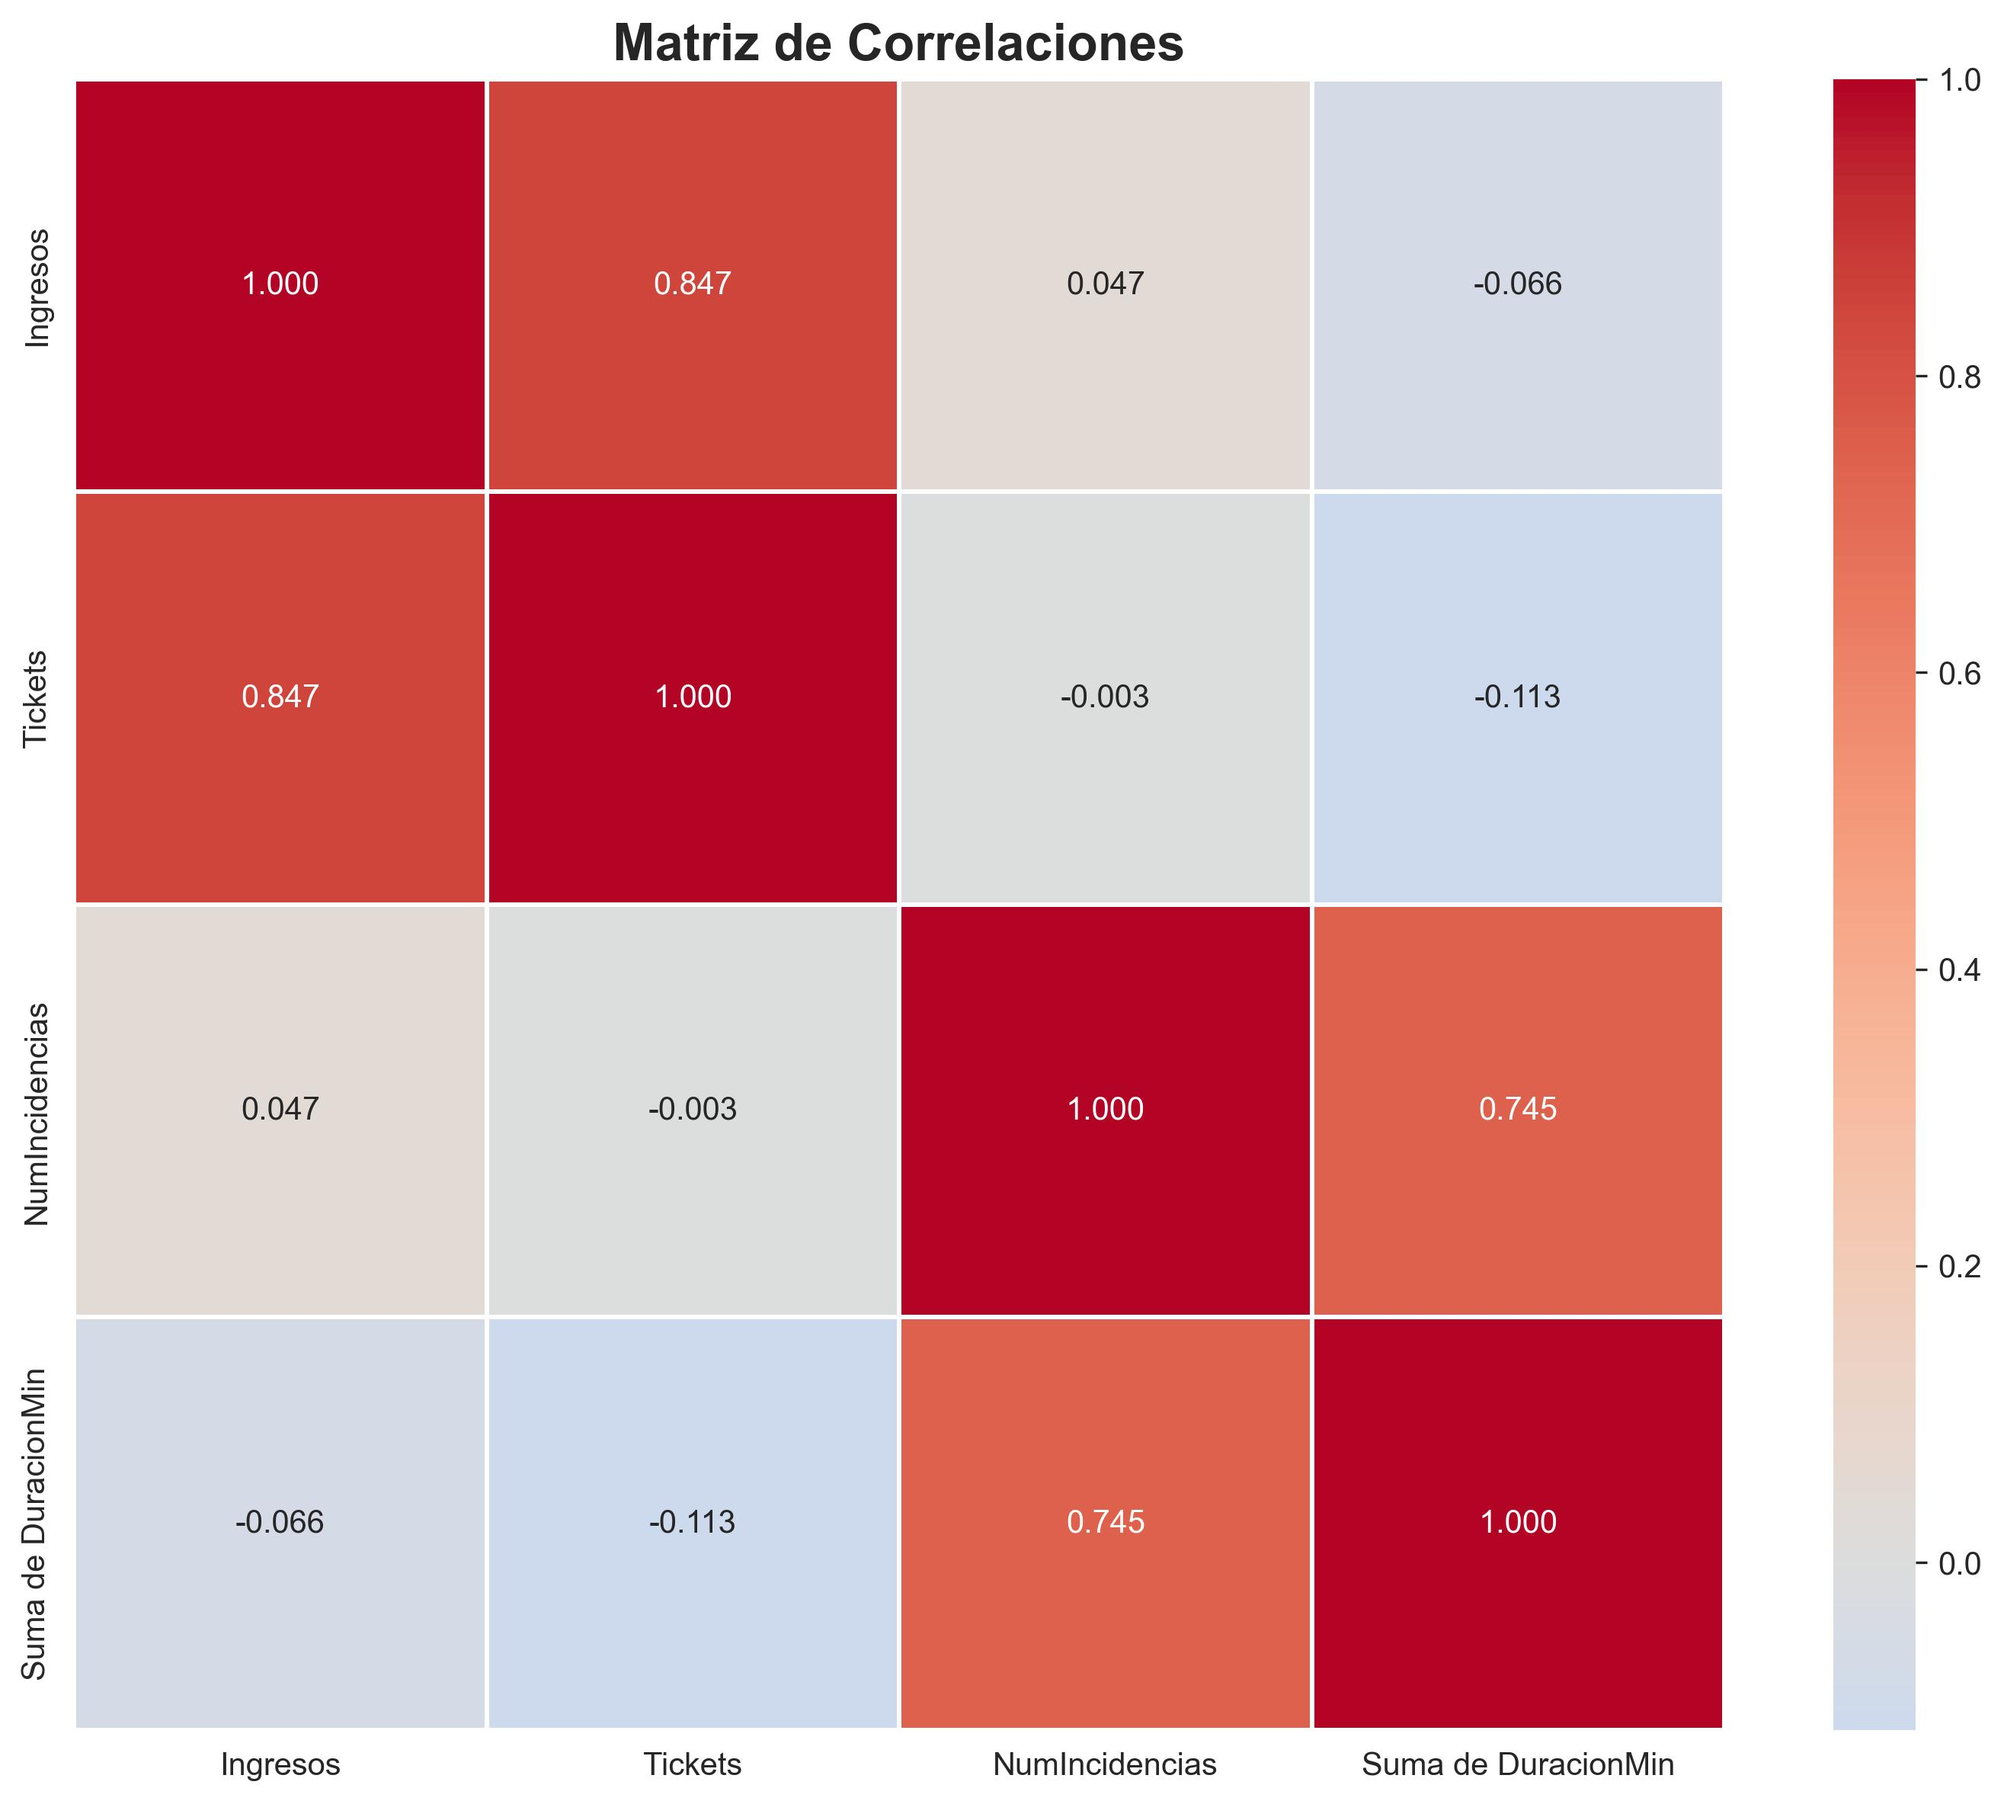
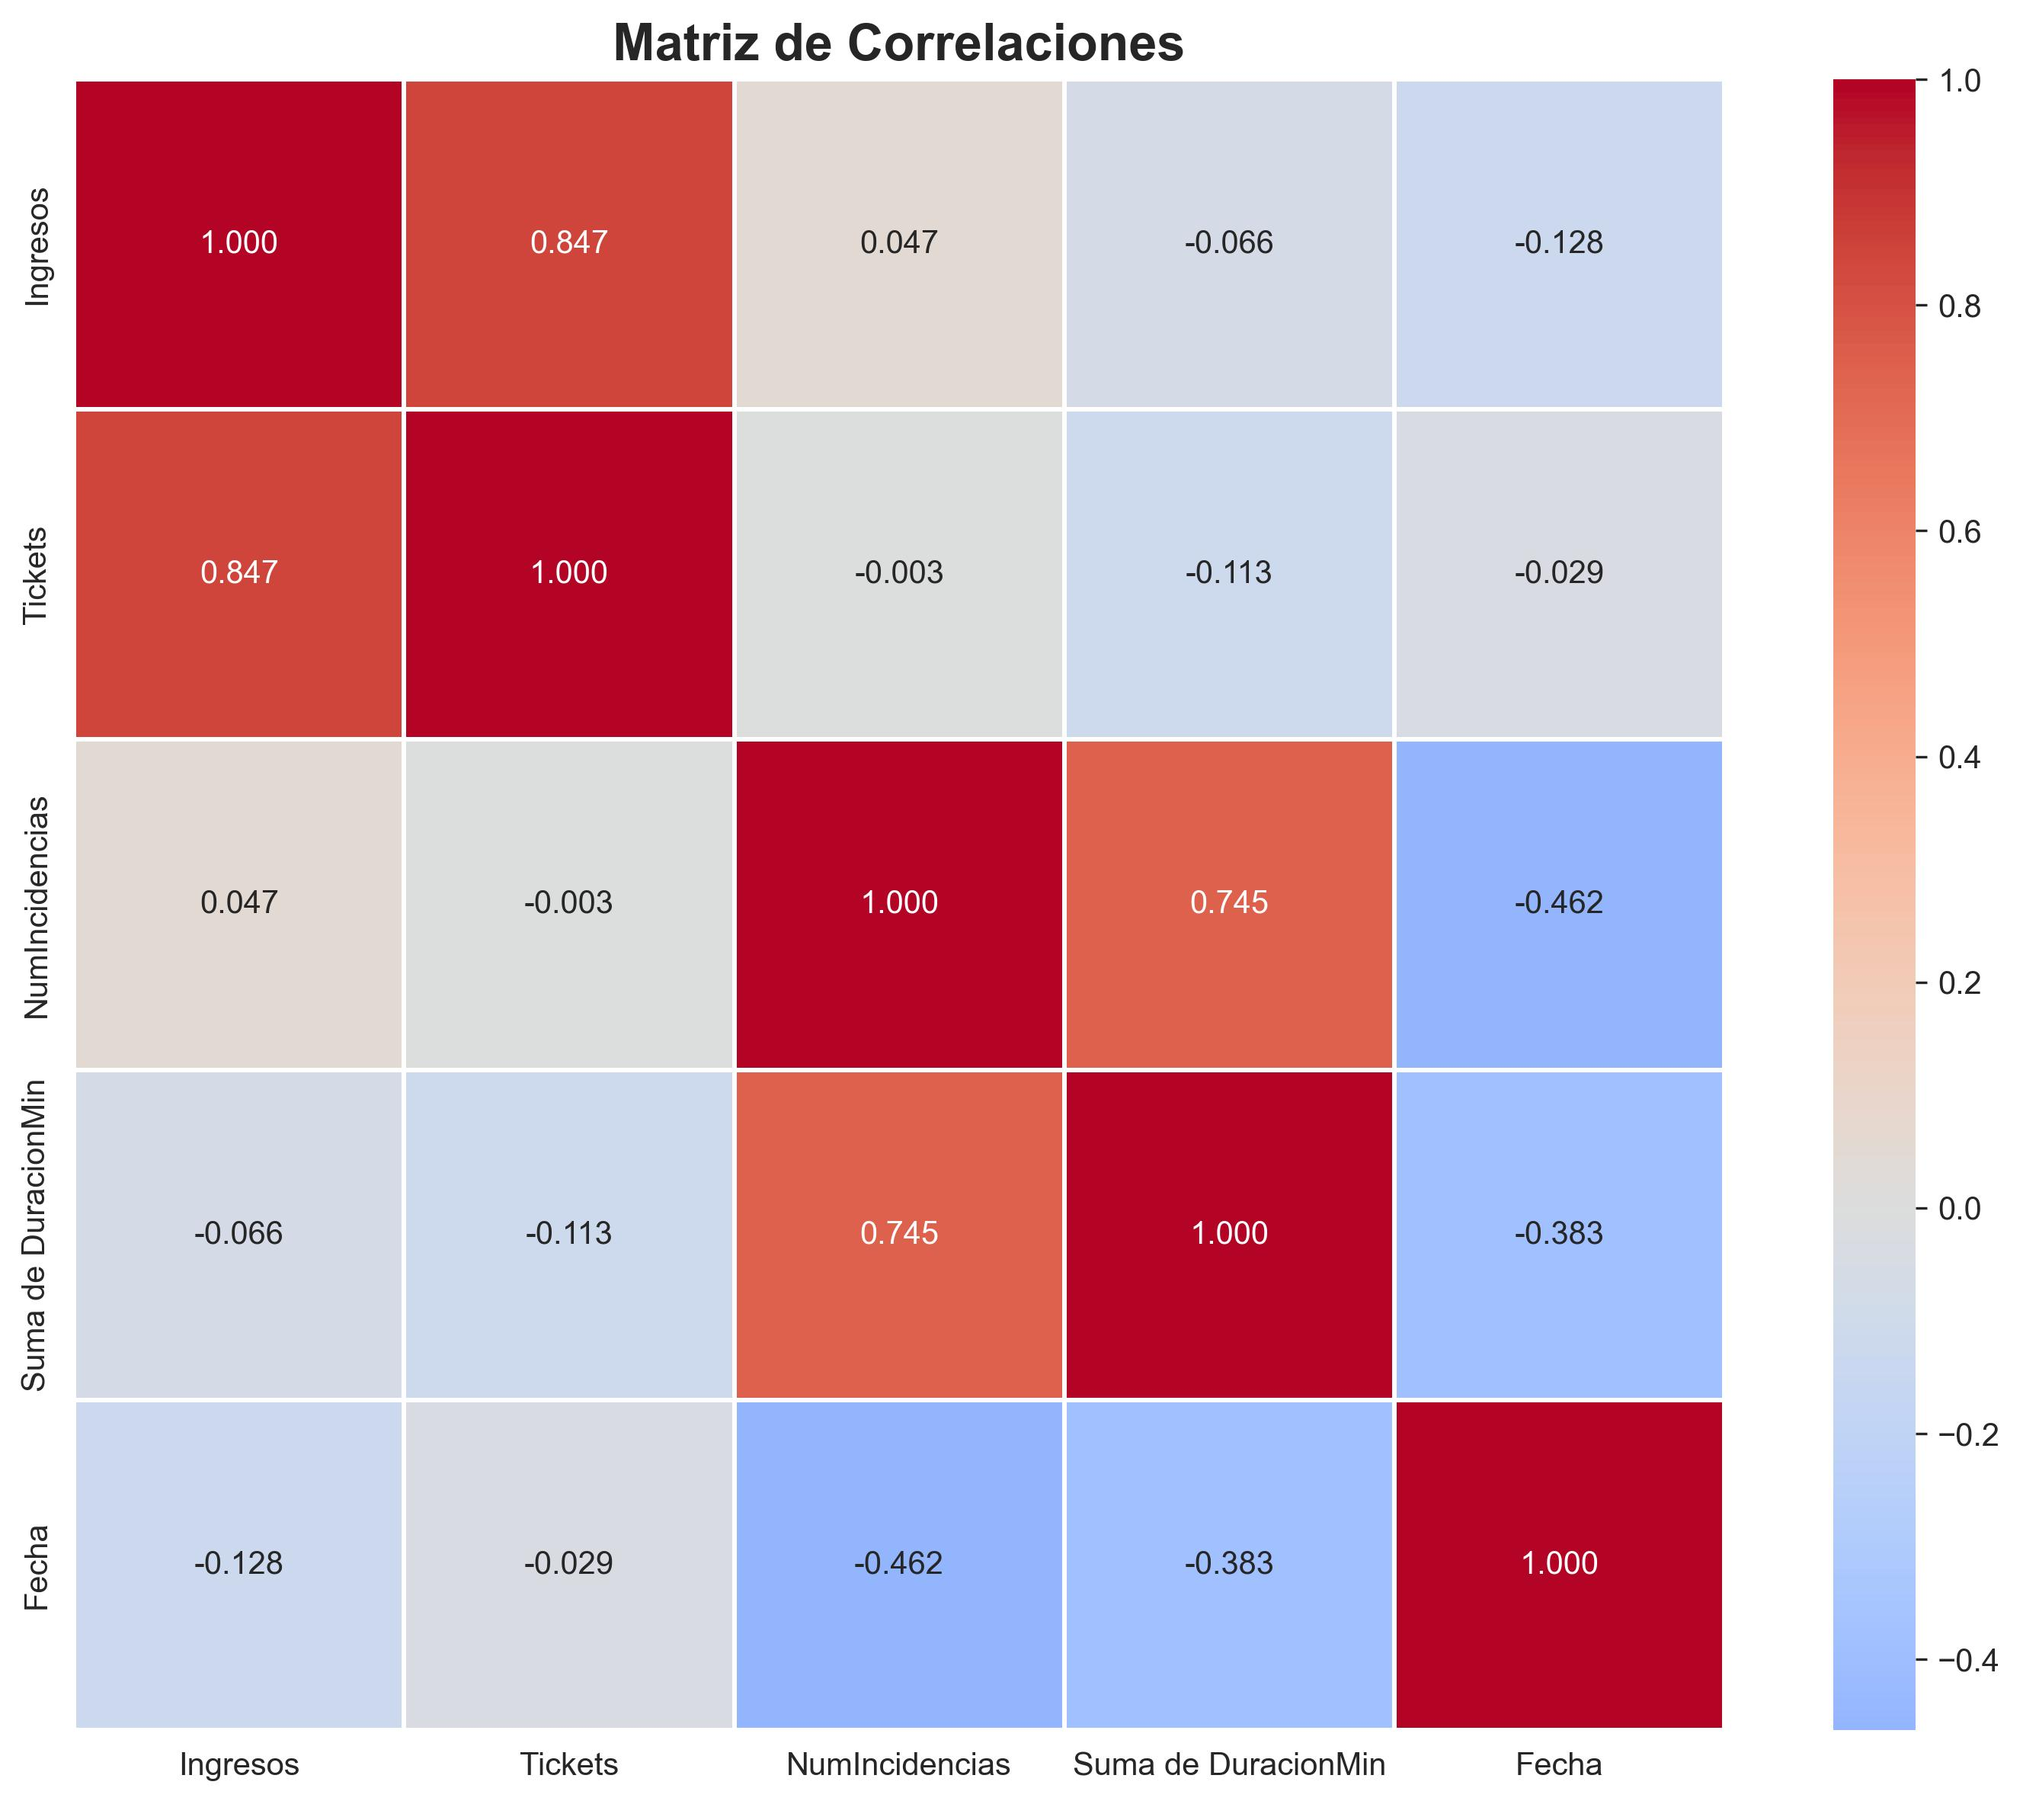
tabla creadisima

diff --git a/analysis/insights.md b/analysis/insights.md
@@ -10,6 +10,17 @@ Este .md analiza la relación estadística entre las incidencias operacionales y
 - Desglosar las Incidencias por tipo y por grado de severidad y ver si se encuentran diferencias entre las categorías.
 - Cuantificar, si es posible, el efecto económico de las incidencias.
 
+Para lograr los objetivos necesitamos centralizar los datos en una única tabla. Creamos una tabla con los datos de ingresos e incidencias agregados por día. La tabla es la siguiente:
+
+
+| Fecha      | Ingresos | Tickets | NumIncidencias | Suma de DuracionMin | TieneIncidencia |
+|------------|--------:|-------:|---------------:|--------------------:|----------------:|
+| 2024-01-01 |  639.40 |     34 |            0.0 |                 0.0 |               0 |
+| 2024-01-02 | 1,116.47|     50 |            0.0 |                 0.0 |               0 |
+| 2024-01-03 |  761.36 |     37 |            1.0 |               148.0 |               1 |
+| 2024-01-04 |  809.75 |     42 |            0.0 |                 0.0 |               0 |
+| 2024-01-05 |  942.39 |     44 |            1.0 |               106.0 |               1 |
+
 ## Heatmap de Correlaciones
 Antes de empezar con el análisis, hacemos una matriz de correlaciones para las siguientes covariables: Ingresos, Tickets, NumIncidencias, Suma de DuracionMin. De este modo podemos hacernos una idea de qué correlaciones puede ser interesante estudiar.
 ![Matriz correlaciones](../images/matriz_correlaciones.jpg)
